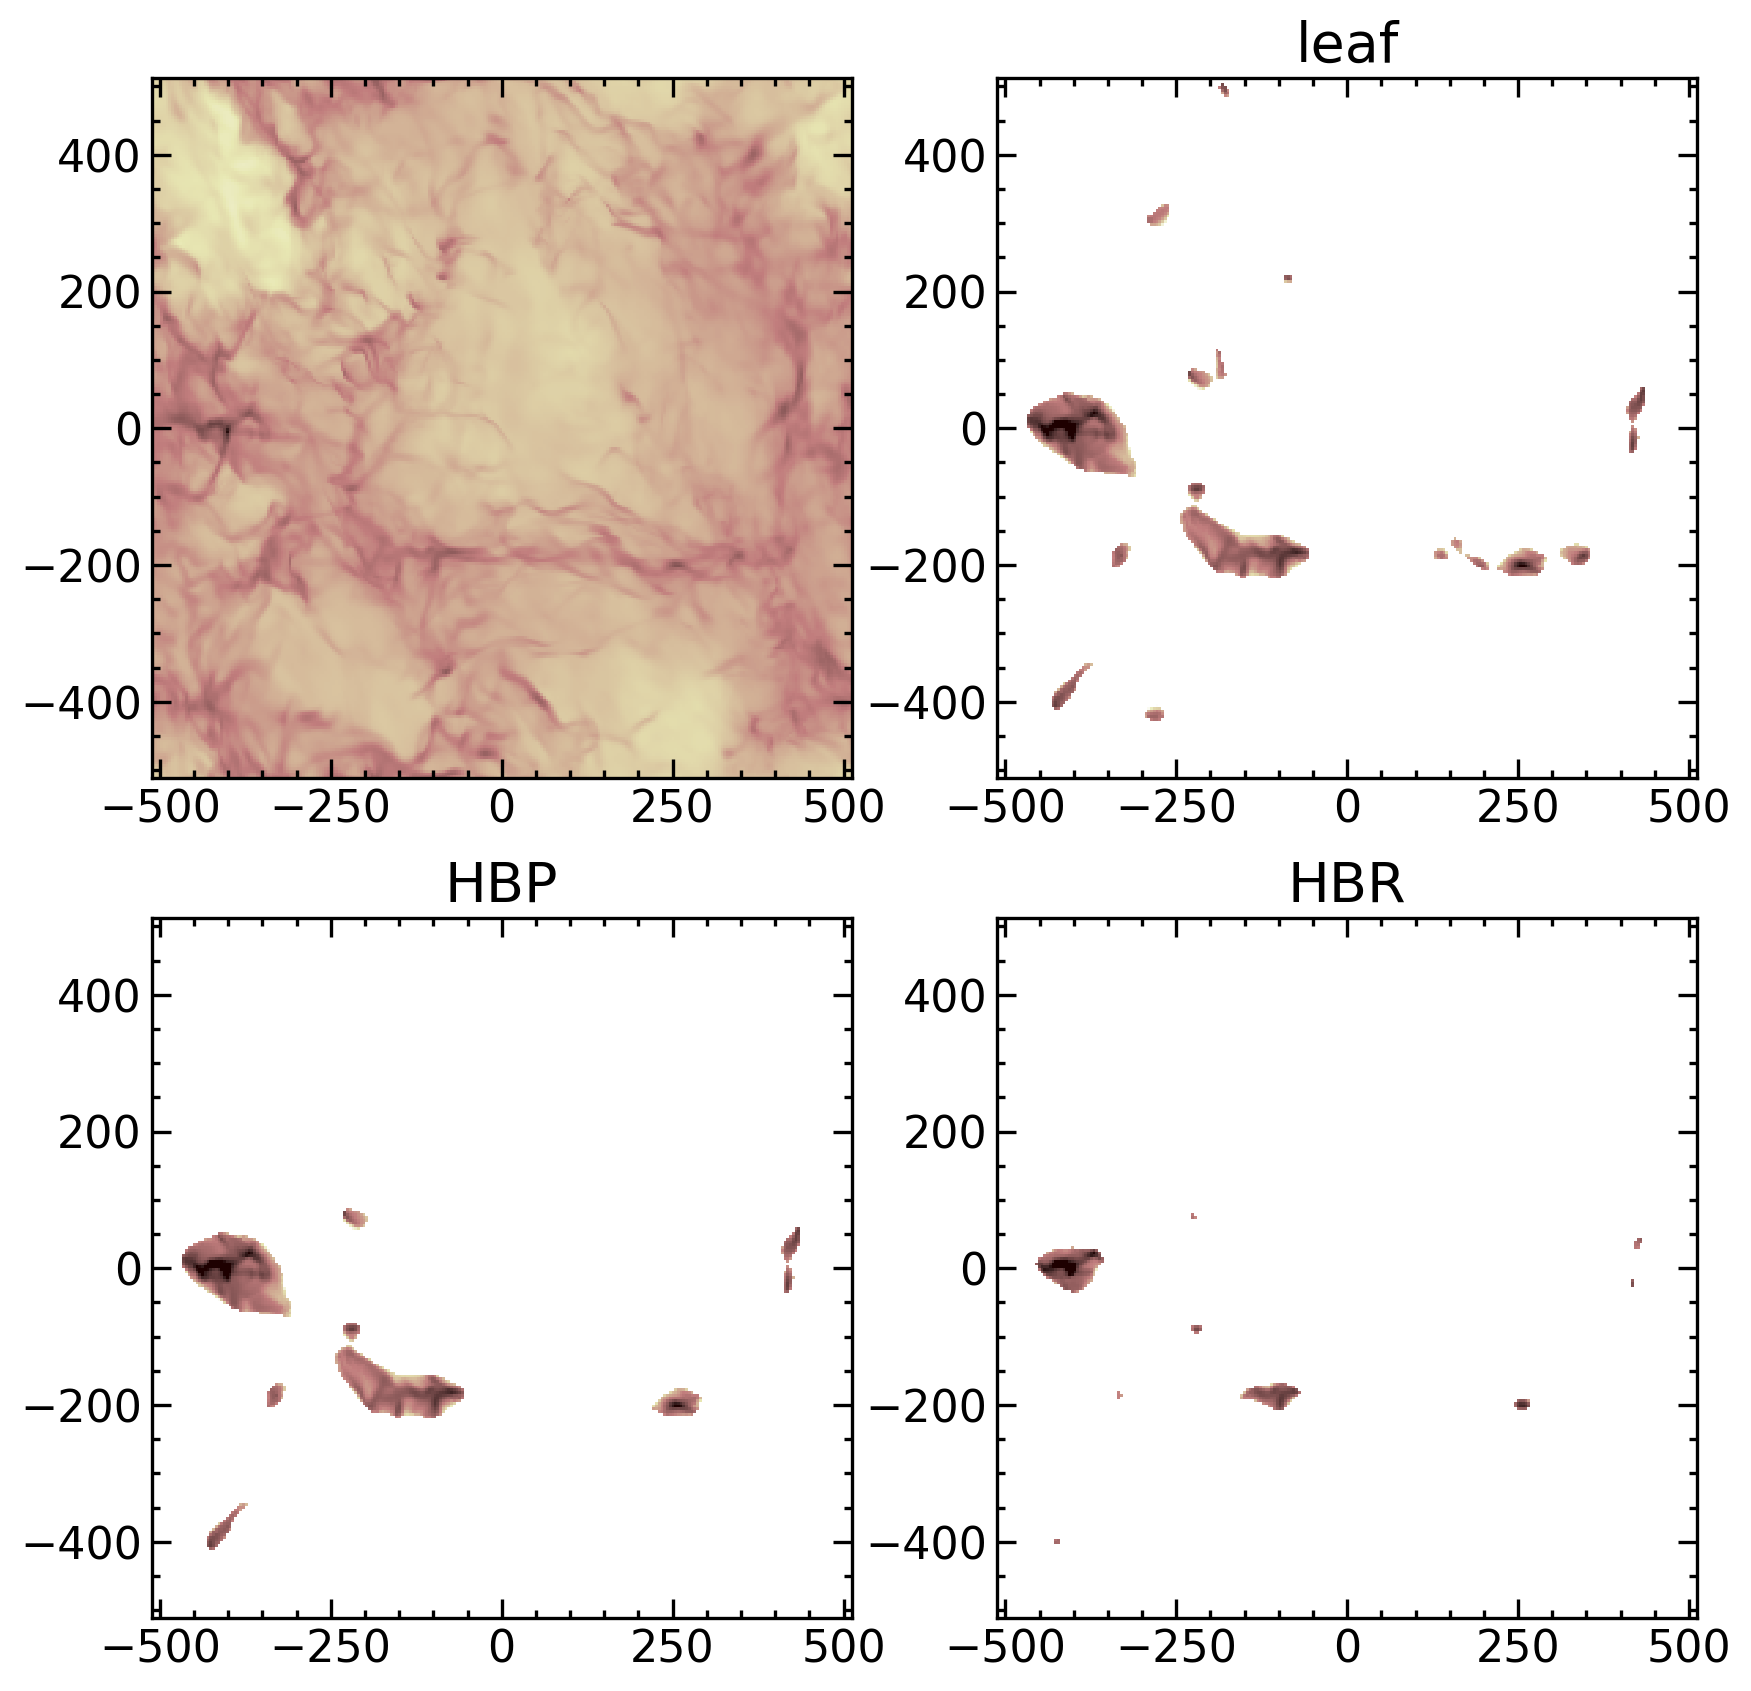
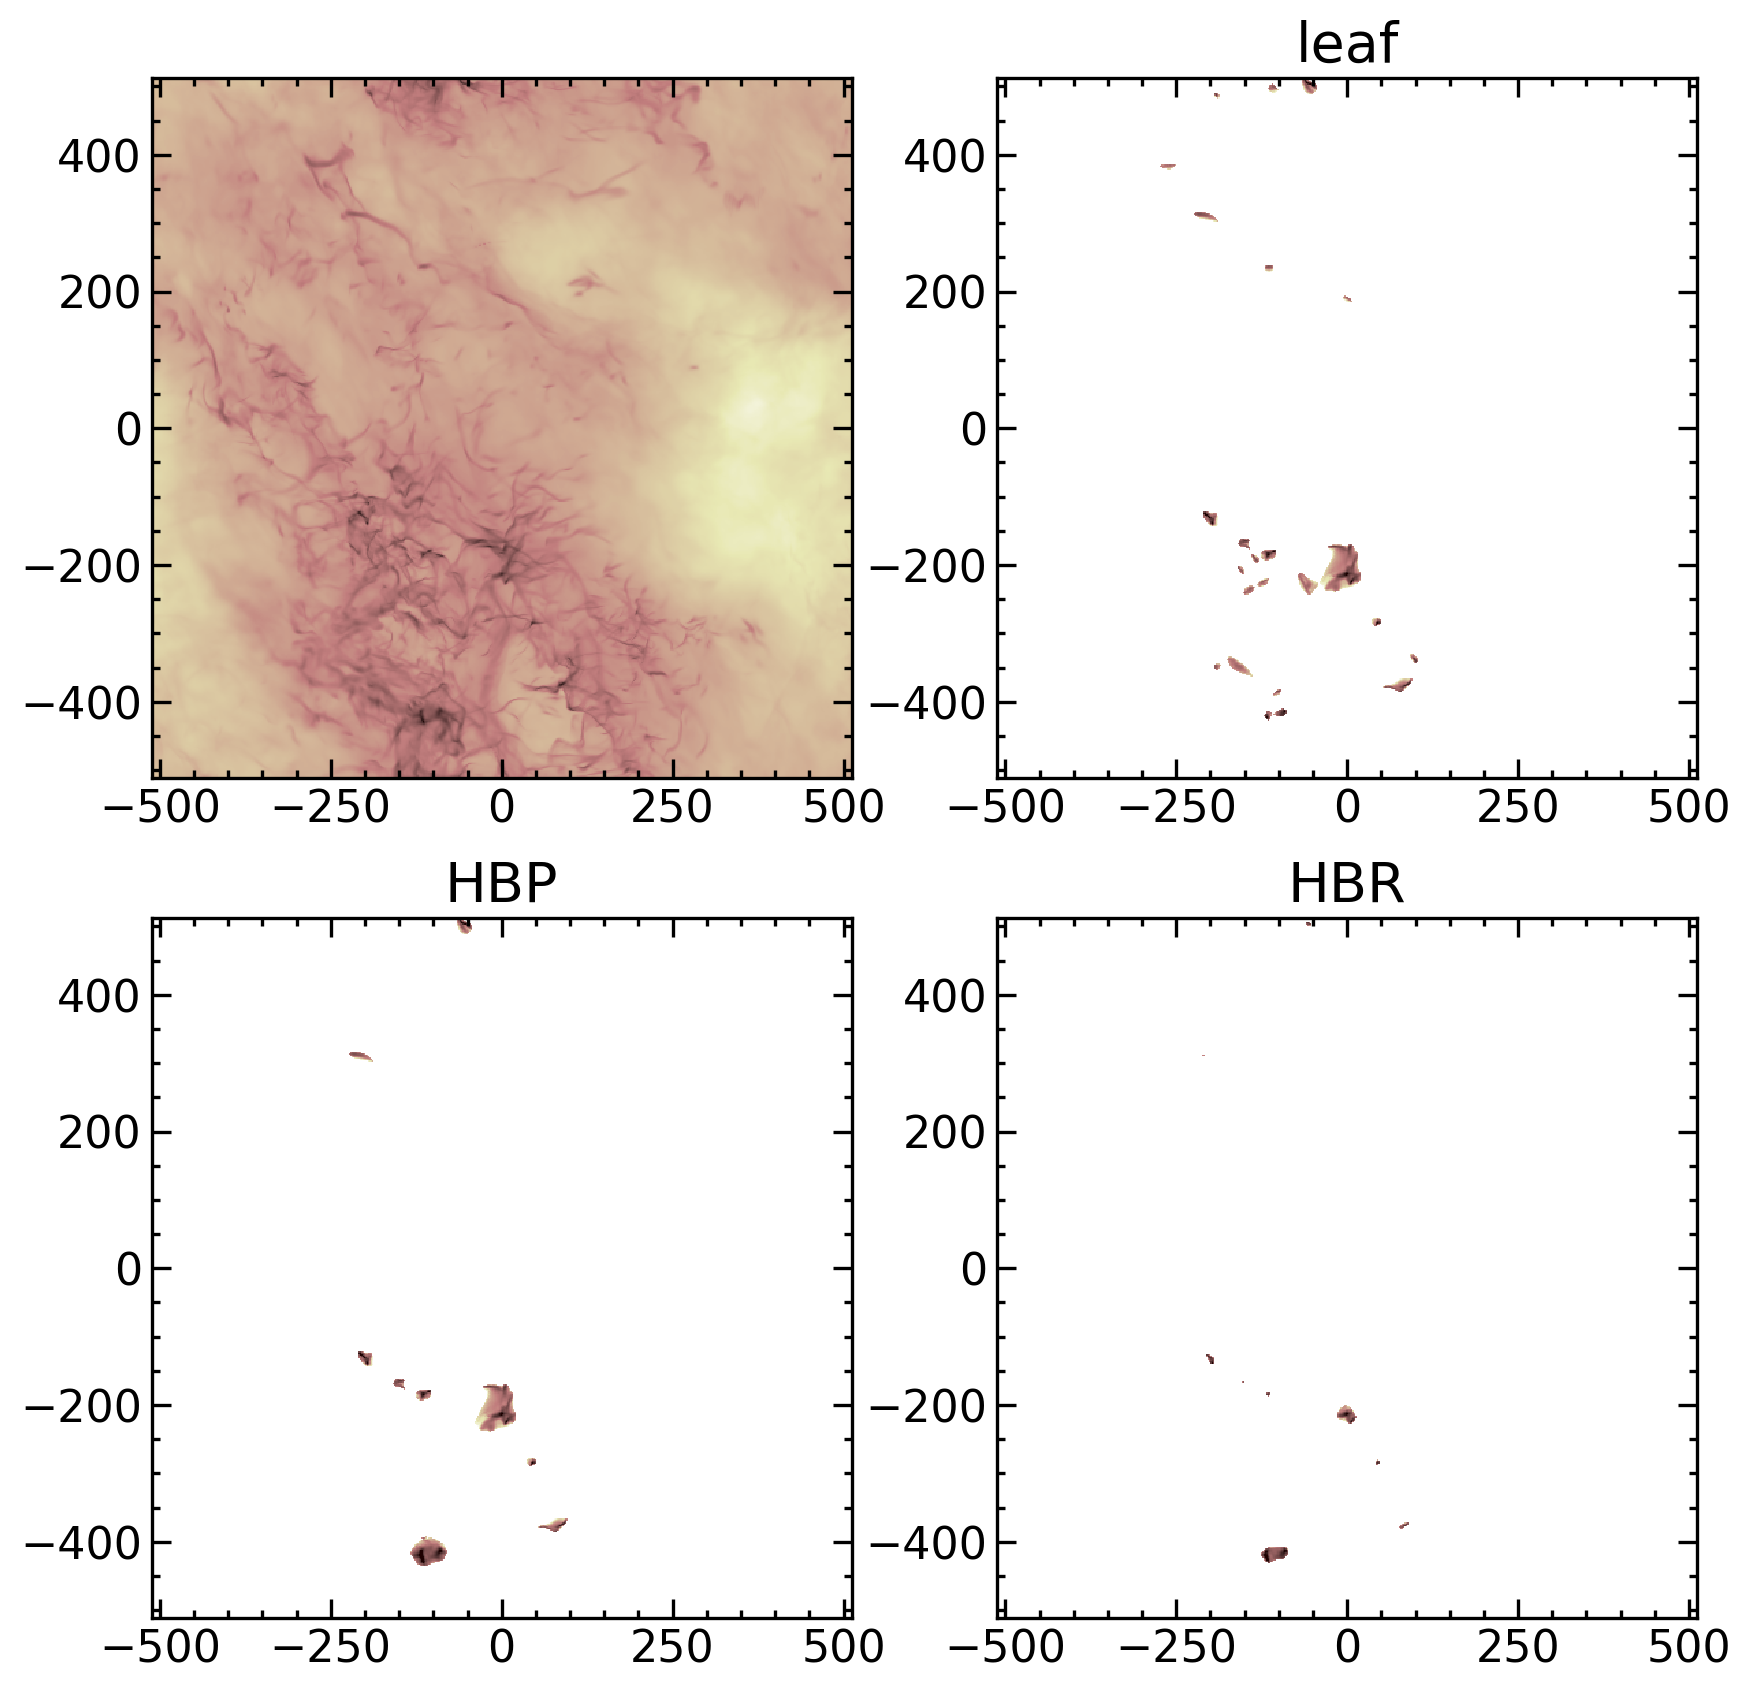
Update docs

diff --git a/docs/intro.md b/docs/intro.md
@@ -13,52 +13,52 @@
 ```
 >>> import matplotlib.pyplot as plt
 >>> from matplotlib.colors import LogNorm
->>> from pathlib import Path
 >>> import pyathena as pa
->>> from grid_dendro import dendrogram
->>> from grid_dendro import energy
-
->>> basedir = Path("/tigress/sm69/public_html/files/grid_dendro_example_data")
->>> ds = pa.read_vtk(basedir / "R8_4pc.0500.vtk")
->>> ds_grav_pp = pa.read_vtk(basedir / "R8_4pc.0500.Phi.vtk")
->>> dat = ds.get_field(['density','velocity','pressure'])
+>>> from grid_dendro import dendrogram, energy
+>>>
+>>> # Read data
+>>> basedir = "/tigress/sm69/public_html/files/grid_dendro_example_data/R8_2pc_rst"
+>>> ds = pa.read_vtk(f"{basedir}/R8_2pc_rst.0390.vtk")
+>>> ds_grav_pp = pa.read_vtk(f"{basedir}/R8_2pc_rst.0390.Phi.vtk")
+>>> dat = ds.get_field(['density', 'velocity', 'pressure'])
 >>> dat['gravitational_potential'] = ds_grav_pp.get_field('Phi').Phi
->>> dat = dat.sel(z=slice(-200, 200))
+>>>
+>>> # Construct dendrogram and prune
 >>> gd = dendrogram.Dendrogram(dat.gravitational_potential.data)
->>> gd.construct()
->>> gd.prune()  # Remove buds
-
+>>> gd.construct()  # Construct dendrogram
+>>> gd.prune(ncells_min=27)  # Remove buds by applying minimum cell criterion
+>>>
+>>> # Find HBP and HBR
 >>> data = dict(rho=dat.density.data,
-                vel1=dat.velocity1.data,
-                vel2=dat.velocity2.data,
-                vel3=dat.velocity3.data,
-                prs=dat.pressure.data,
-                phi=dat.gravitational_potential.data)
+>>>             vel1=dat.velocity1.data,
+>>>             vel2=dat.velocity2.data,
+>>>             vel3=dat.velocity3.data,
+>>>             prs=dat.pressure.data,
+>>>             phi=dat.gravitational_potential.data)
 >>> hbp, hbr = energy.find_bound_objects(gd, data)
-
->>> # Now, plot the results
+>>>
+>>> # Plot results
 >>> fig, axs = plt.subplots(2, 2, figsize=(10,10))
+>>> norm = LogNorm(1e-1, 1e2)
 >>> dim = 'z'
 >>> dz = ds.domain['dx'][2]
-
->>> (dat.density).sum(dim=dim).plot.imshow(ax=axs[0,0], norm=LogNorm(1e0, 2e3),
-                                           cmap='pink_r', add_colorbar=False,
-                                           add_labels=False)
->>> for ax, node
+>>> 
+>>> (dat.density*u.Msun).sum(dim=dim).plot.imshow(ax=axs[0,0], norm=norm, cmap='pink_r',
+>>>                                               add_colorbar=False, add_labels=False)
+>>> 
 >>> rho = gd.filter_data(dat.density, gd.leaves)
->>> (rho*dz).sum(dim=dim).plot.imshow(ax=axs[0,1], norm=LogNorm(1e0, 2e3),
-                                      cmap='pink_r', add_colorbar=False,
-                                      add_labels=False)
+>>> (rho*dz*u.Msun).sum(dim=dim).plot.imshow(ax=axs[0,1], norm=norm, cmap='pink_r',
+>>>                                          add_colorbar=False, add_labels=False)
 >>> axs[0,1].set_title("leaf")
->>> rho = dendrogram.filter_by_node(dat.density, hbp)
->>> (rho*dz).sum(dim=dim).plot.imshow(ax=axs[1,0], norm=LogNorm(1e0, 2e3),
-                                      cmap='pink_r', add_colorbar=False,
-                                      add_labels=False)
+>>> 
+>>> rho = dendrogram.filter_by_dict(dat.density, hbp)
+>>> (rho*dz*u.Msun).sum(dim=dim).plot.imshow(ax=axs[1,0], norm=norm, cmap='pink_r',
+>>>                                          add_colorbar=False, add_labels=False)
 >>> axs[1,0].set_title("HBP")
->>> rho = dendrogram.filter_by_node(dat.density, hbr)
->>> (rho*dz).sum(dim=dim).plot.imshow(ax=axs[1,1], norm=LogNorm(1e0, 2e3),
-                                      cmap='pink_r', add_colorbar=False,
-                                      add_labels=False)
+>>> 
+>>> rho = dendrogram.filter_by_dict(dat.density, hbr)
+>>> (rho*dz*u.Msun).sum(dim=dim).plot.imshow(ax=axs[1,1], norm=norm, cmap='pink_r',
+>>>                                          add_colorbar=False, add_labels=False)
 >>> axs[1,1].set_title("HBR")
 >>> for ax in axs.flat:
 >>>     ax.set_aspect('equal')
